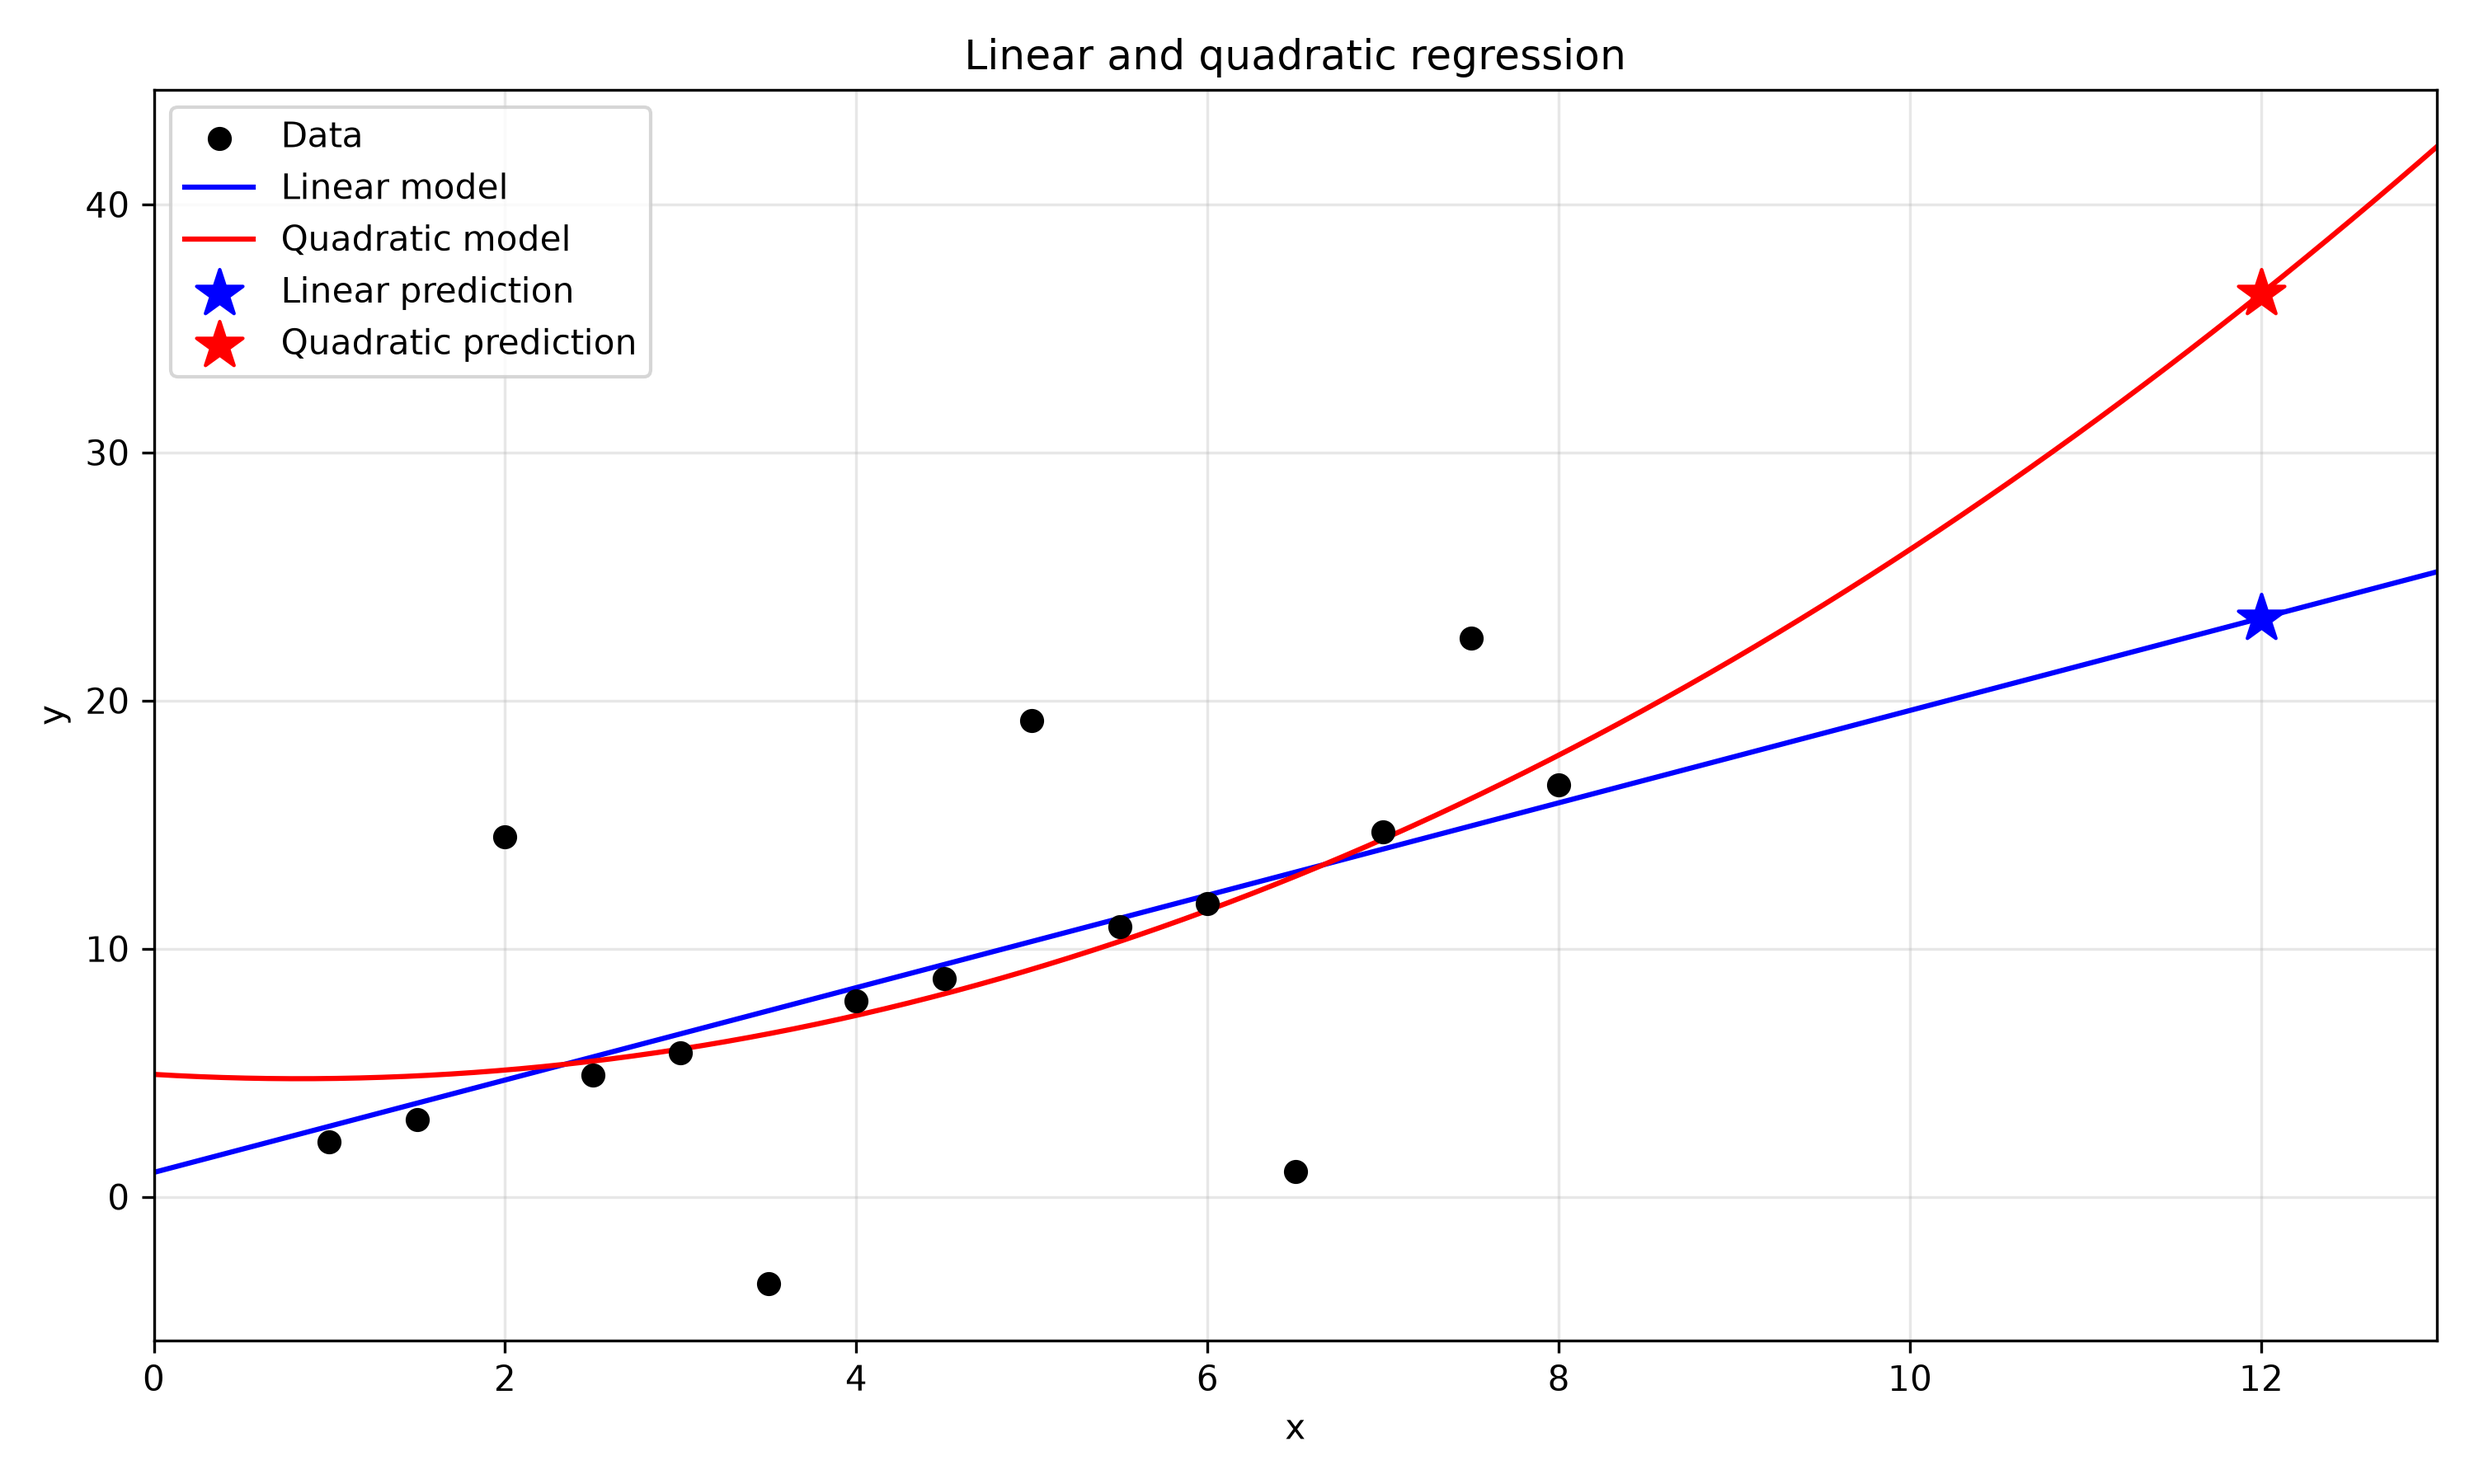
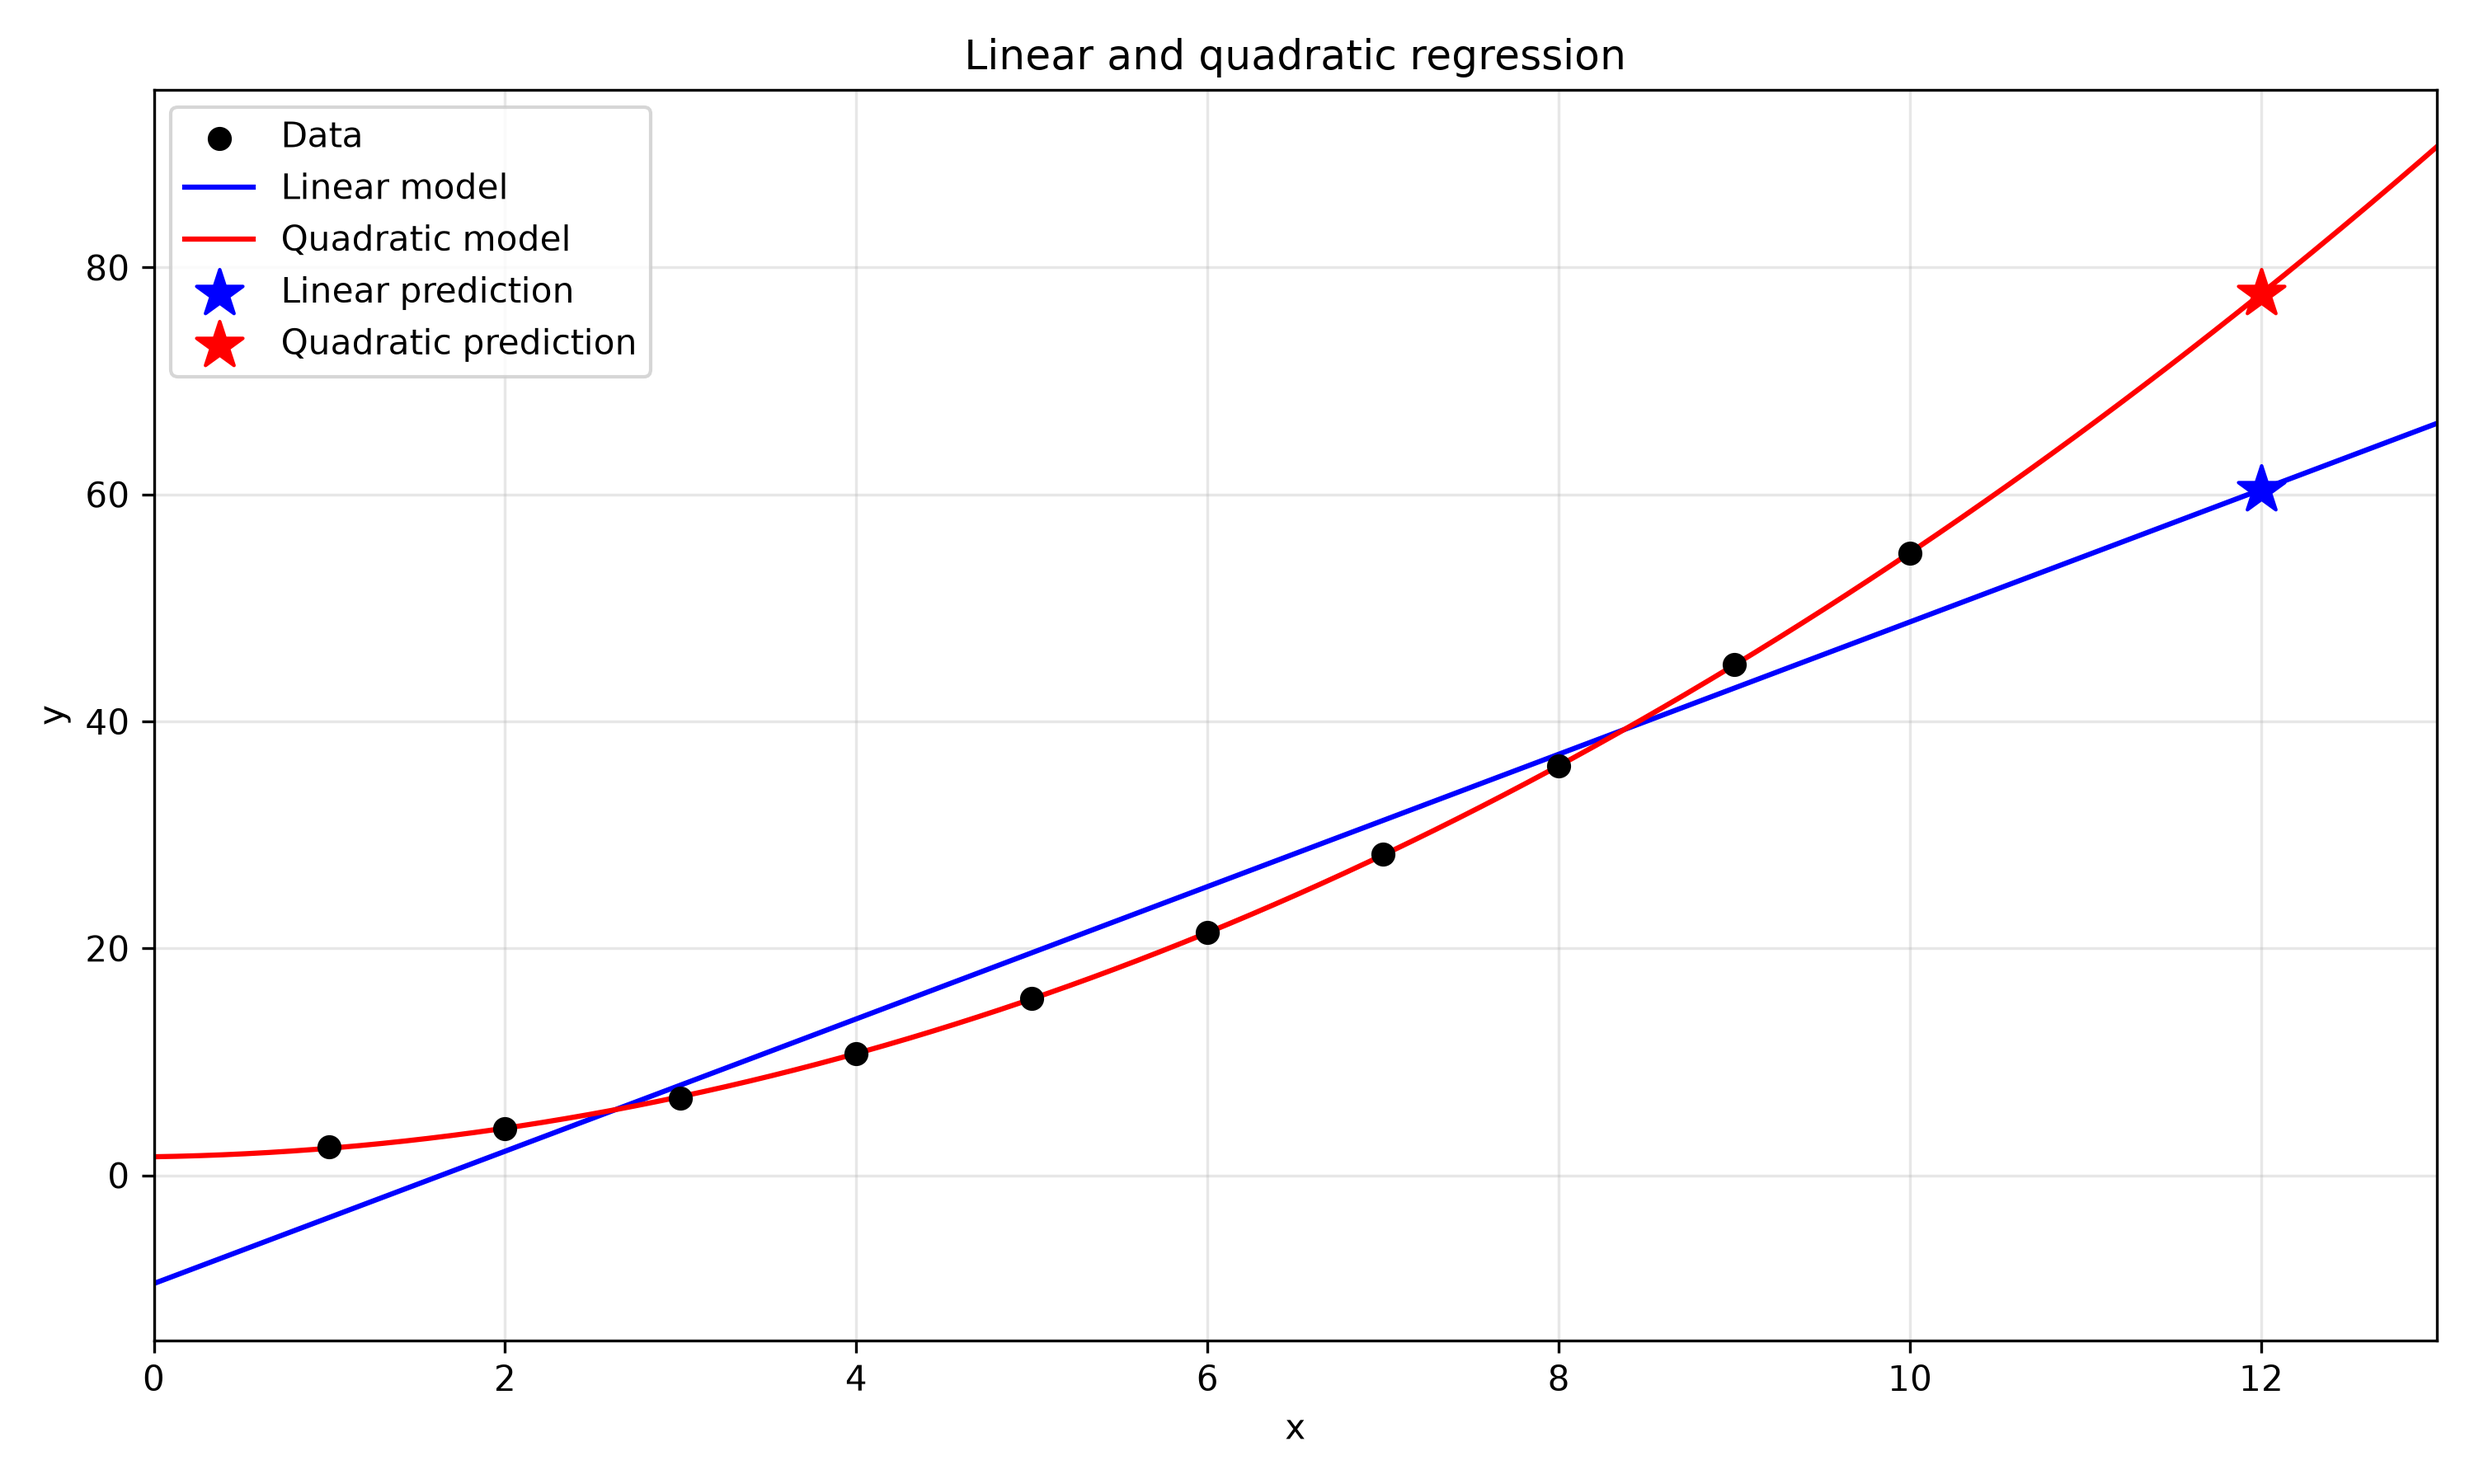
part 2

diff --git a/main2.py b/main2.py
@@ -1,0 +1,155 @@
+import numpy as np
+import random
+import matplotlib.pyplot as plt
+
+x = np.array([
+    1.0, 1.5, 2.0, 2.5, 3.0,
+    3.5, 4.0, 4.5, 5.0, 5.5,
+    6.0, 6.5, 7.0, 7.5, 8.0
+])
+
+y = np.array([
+    2.20, 3.10, 14.50, 4.90, 5.80,
+    -3.50, 7.90, 8.80, 19.20, 10.90,
+    11.80, 1.00, 14.70, 22.50, 16.60
+])
+
+
+def ransac(t, rng):
+    rand_num, rand_num2 = rng.sample(range(len(x)), 2)
+
+    m = (y[rand_num2] - y[rand_num]) / (x[rand_num2] - x[rand_num])
+    b = y[rand_num] - m * x[rand_num]
+
+    count = 0
+
+    for n in range(len(x)):
+        distance = abs(y[n] - (m * x[n] + b))
+
+        if distance <= t:
+            count += 1
+
+    return [[m, b], count]
+
+
+def fit_ransac(t, S, seed):
+    rng = random.Random(seed)
+    counts = []
+
+    for n in range(S):
+        counts.append(ransac(t, rng))
+
+    largest_count = max(counts, key=lambda result: result[1])
+    m, b = largest_count[0]
+
+    inliers = []
+
+    for n in range(len(x)):
+        distance = abs(y[n] - (m * x[n] + b))
+        inliers.append(distance <= t)
+
+    inliers = np.array(inliers)
+
+    inlier_x = x[inliers]
+    inlier_y = y[inliers]
+
+    X = np.column_stack([inlier_x, np.ones_like(inlier_x)])
+    m_final, c_final = np.linalg.lstsq(X, inlier_y, rcond=None)[0]
+
+    return m_final, c_final, inliers
+
+
+def plot_result(ax, result, m_ols, c_ols, title):
+    m, c, inliers = result
+    line_x = np.linspace(x.min(), x.max(), 200)
+
+    ax.scatter(
+        x[inliers], y[inliers],
+        color="blue", label="Consensus inliers"
+    )
+
+    ax.scatter(
+        x[~inliers], y[~inliers],
+        color="red", marker="x", label="Consensus outliers"
+    )
+
+    ax.plot(
+        line_x, m_ols * line_x + c_ols,
+        "--", color="orange", label="OLS: all points"
+    )
+
+    ax.plot(
+        line_x, m * line_x + c,
+        color="green", label="RANSAC refit"
+    )
+
+    ax.set_title(
+        title + f"\n{inliers.sum()} inliers, m={m:.3f}, c={c:.3f}"
+    )
+    ax.set_xlabel("x")
+    ax.set_ylabel("y")
+    ax.grid(alpha=0.25)
+    ax.legend(fontsize=8)
+
+
+def main():
+    # OLS fitted to every point
+    X = np.column_stack([x, np.ones_like(x)])
+    m_ols, c_ols = np.linalg.lstsq(X, y, rcond=None)[0]
+
+    print(f"OLS: m={m_ols:.6f}, c={c_ols:.6f}")
+
+    # Threshold comparison: same iterations and sampled pairs
+    print("\nThreshold comparison: S=50")
+
+    fig, axes = plt.subplots(1, 3, figsize=(15, 5), sharey=True)
+
+    for ax, t in zip(axes, [0.5, 1.5, 4.0]):
+        result = fit_ransac(t, 50, seed=0)
+        m, c, inliers = result
+
+        print(
+            f"t={t}: inliers={inliers.sum()}, "
+            f"m={m:.6f}, c={c:.6f}"
+        )
+
+        plot_result(ax, result, m_ols, c_ols, f"t={t}, S=50")
+
+    fig.tight_layout()
+
+    # Iteration comparison: same threshold and random seed
+    fig, axes = plt.subplots(1, 2, figsize=(10, 5), sharey=True)
+
+    for ax, S in zip(axes, [5, 50]):
+        result = fit_ransac(1.5, S, seed=0)
+        plot_result(ax, result, m_ols, c_ols, f"t=1.5, S={S}")
+
+    fig.tight_layout()
+
+    # Repeat runs because one run cannot establish stability
+    print("\nStability over 100 runs: t=1.5")
+
+    for S in [5, 50]:
+        slopes = []
+        intercepts = []
+        inlier_counts = []
+
+        for seed in range(100):
+            m, c, inliers = fit_ransac(1.5, S, seed)
+
+            slopes.append(m)
+            intercepts.append(c)
+            inlier_counts.append(int(inliers.sum()))
+
+        print(f"\nS={S}")
+        print(f"Average inliers: {np.mean(inlier_counts):.2f}")
+        print(f"Minimum inliers: {min(inlier_counts)}")
+        print(f"Maximum inliers: {max(inlier_counts)}")
+        print(f"Slope standard deviation: {np.std(slopes):.6f}")
+        print(f"Intercept standard deviation: {np.std(intercepts):.6f}")
+
+    plt.show()
+
+
+if __name__ == "__main__":
+    main()

diff --git a/main1.py b/main1.py
@@ -2,15 +2,13 @@ import numpy as np
 import matplotlib.pyplot as plt
 
 x = np.array([
-    1.0, 1.5, 2.0, 2.5, 3.0,
-    3.5, 4.0, 4.5, 5.0, 5.5,
-    6.0, 6.5, 7.0, 7.5, 8.0
+    1.0, 2.0, 3.0, 4.0, 5.0,
+    6.0, 7.0, 8.0, 9.0, 10.0
 ])
 
 y = np.array([
-    2.20, 3.10, 14.50, 4.90, 5.80,
-    -3.50, 7.90, 8.80, 19.20, 10.90,
-    11.80, 1.00, 14.70, 22.50, 16.60
+    2.50, 4.10, 6.80, 10.70, 15.60,
+    21.40, 28.30, 36.10, 45.00, 54.80
 ])
 
 # Linear model
